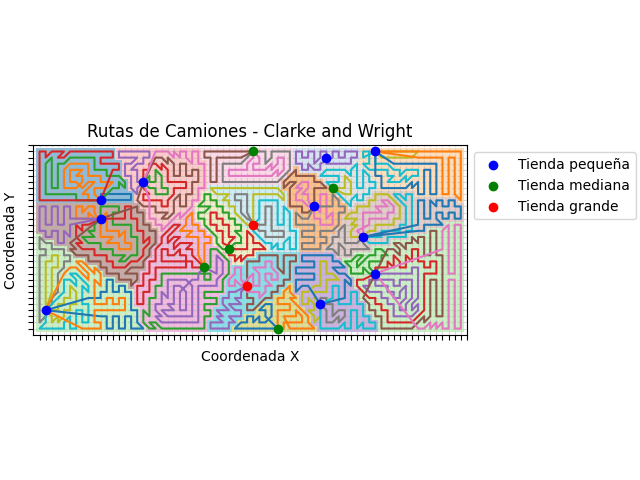
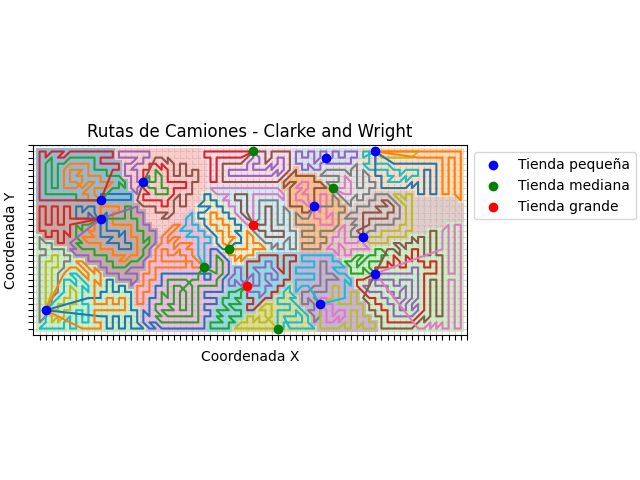
lógica de demanda insatisfecha agregada a cw v2

Changed region(s): [[0.0625, 0.3125, 0.7188, 0.6875]]

diff --git a/Entrega 2/src/algoritmo_CW_v2.py b/Entrega 2/src/algoritmo_CW_v2.py
@@ -246,6 +246,8 @@ for index, row in tiendas_data.iterrows():
         })
 
     rutas_finales.sort(key=lambda r: r['distancia'])  # priorizar rutas cortas
+    rutas_finales = rutas_finales[:n_camiones]  # Limitar a N rutas
+
     rutas_totales[tienda] = rutas_finales
     # rutas_totales[tienda] = rutas_finales[:n_camiones]  # Limitar a N rutas
 
@@ -255,24 +257,22 @@ for index, row in tiendas_data.iterrows():
 
     # 2. Listado de zonas visitadas
     zonas_visitadas = set()
-    for rutas in rutas_totales.values():
-        for r in rutas:
-            # ruta['ruta'] es lista de id_zona
-            zonas_visitadas |= set(r['ruta'])
+    for r in rutas_finales:
+        zonas_visitadas |= set(r['ruta'])
 
     # 3. Zonas sin cubrir (demanda insatisfecha)
-    demanda_insatisfecha = demanda_por_zona[~demanda_por_zona['id_zona'].isin(
-        zonas_visitadas)]
+    demanda_insat_tienda = demanda_por_zona[
+        ~demanda_por_zona['id_zona'].isin(zonas_visitadas)
+    ].copy()
+    demanda_insat_tienda['tienda'] = tienda
     print("Zonas con demanda insatisfecha:")
-    print(demanda_insatisfecha)
+    print(demanda_insat_tienda)
 
-    # 4. Total de demanda insatisfecha
-    total_insat = demanda_insatisfecha['demanda'].sum()
-    print(f"Demanda total insatisfecha: {total_insat}")
-    if total_insat > 0:
-        print(f"Demanda insatisfecha para tienda {tienda}: {total_insat}")
-        demanda_insatisfecha['tienda'] = tienda
-        demanda_insatisfecha['demanda'] = total_insat
+    # 4) Acumular en un DataFrame global
+    demanda_insatisfecha = pd.concat(
+        [demanda_insatisfecha, demanda_insat_tienda],
+        ignore_index=True
+    )
 
 
 # === Mostrar resultados ===
